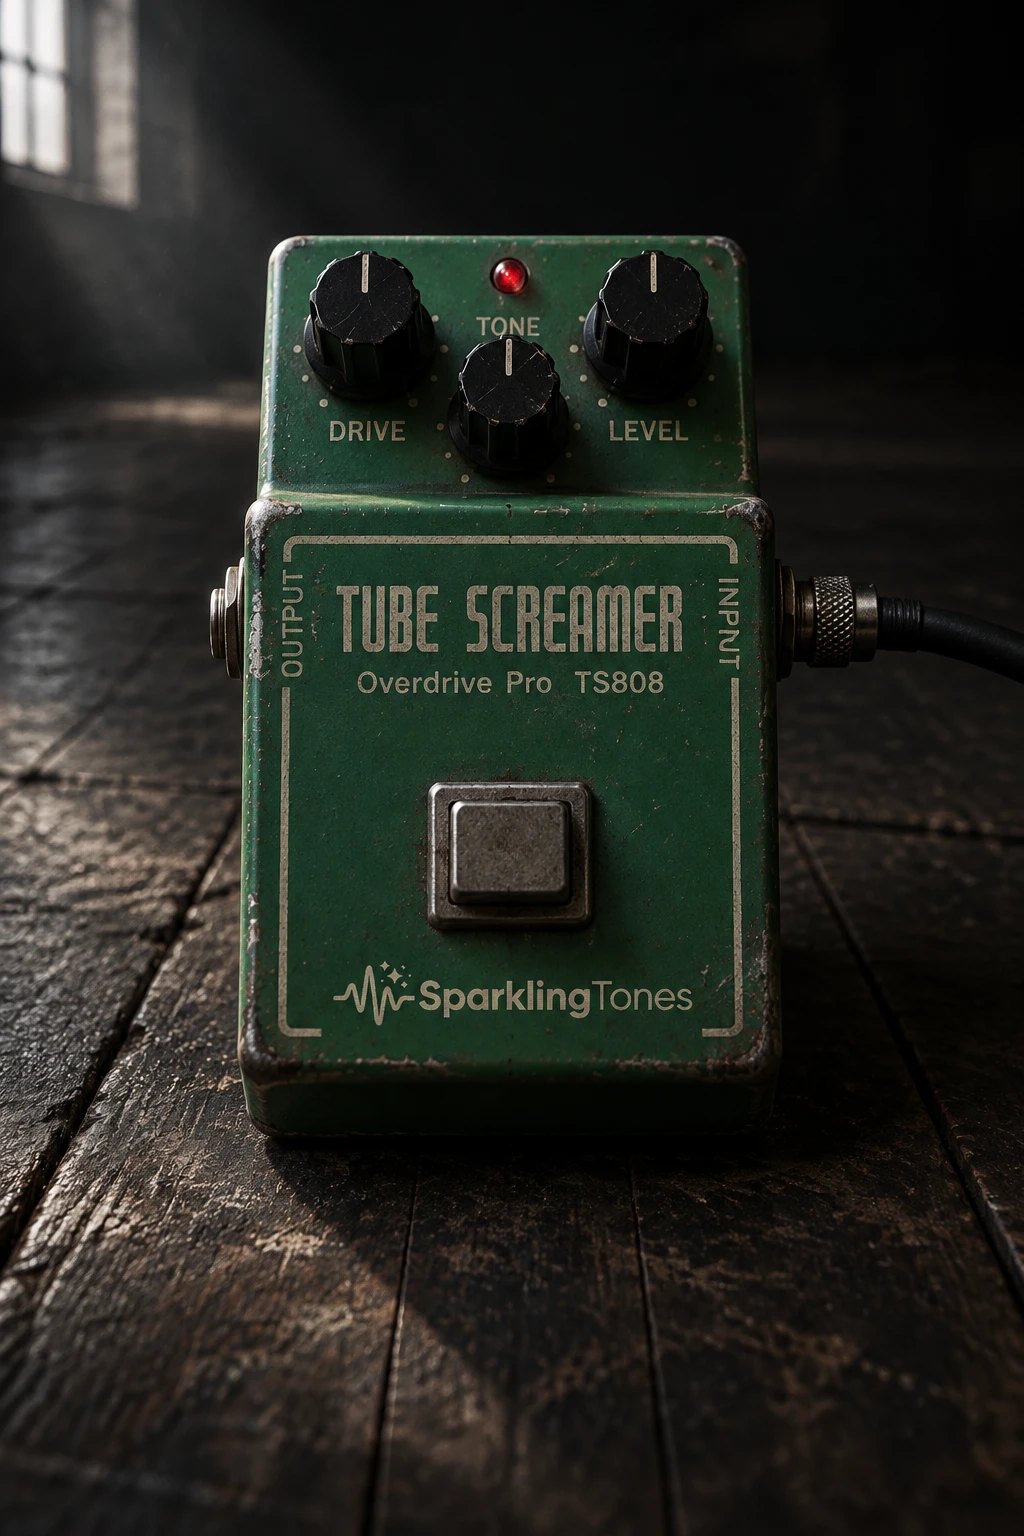
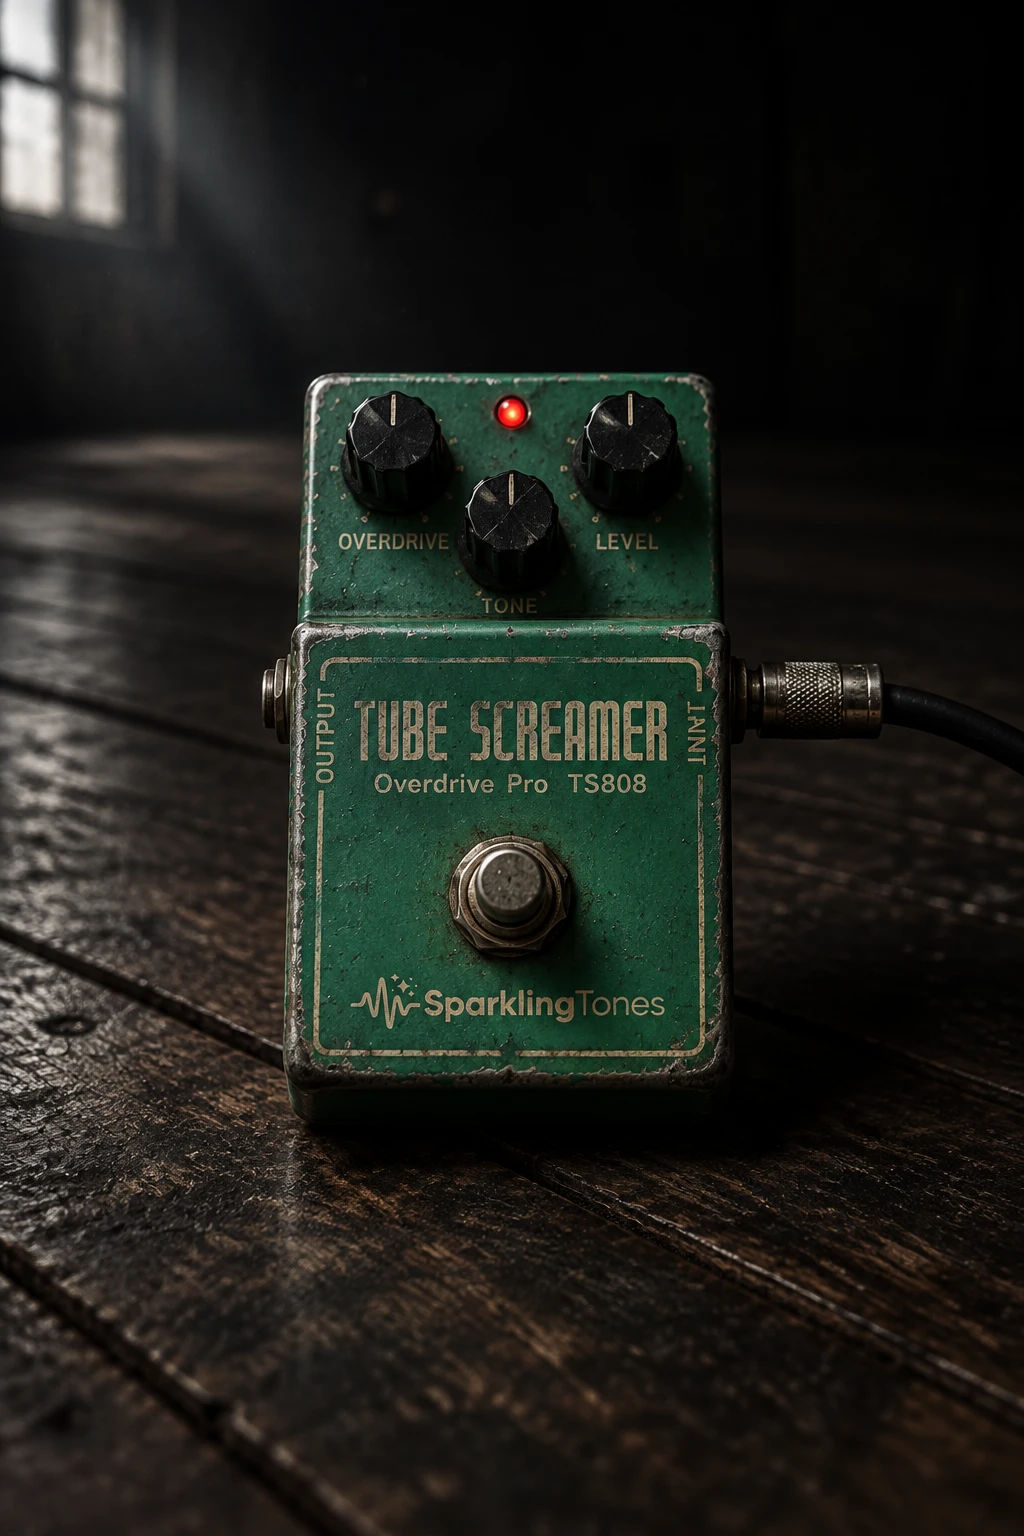
Bozza classico: un pedale può uscire dai lati e venire più grande
Nuovo Tube Screamer (luce a 4500 K, quella scelta) sull'Over Drive. Con
`largo` l'immagine di un pedale può essere più larga del pannello: i lati
sono buio e escono dallo schermo (il pannello del classico non scorre più di
lato), e il pedale viene grande quanto lo spazio in altezza permette.

diff --git a/src/app/17-editor-classico.js b/src/app/17-editor-classico.js
@@ -21,13 +21,14 @@
  * 1024 × 1536, col prompt dei pedali vintage). Un modello senza immagine
  * prende l'ampli. `taglio` è quanto muro vuoto si toglie in alto, `testa`
  * quanta immagine resta sopra il titolo: tutti e due in frazioni dell'altezza,
+ * `largo` quante volte il pannello può essere larga (i lati bui escono),
  * presi a occhio sull'immagine (il soggetto comincia al taglio; il titolo
  * e le manopole coprono la parte bassa, come le casse dell'ampli).
  */
-const SFONDO_PREDEFINITO = { src: 'immagini/classico/ampli.webp', taglio: 0.17, testa: 0.25 };
+const SFONDO_PREDEFINITO = { src: 'immagini/classico/ampli.webp', taglio: 0.17, testa: 0.25, largo: 1 };
 const SFONDI_CLASSICI = {
-  DistortionTS9: { src: 'immagini/classico/tube-drive.webp', taglio: 0.14, testa: 0.35 },
-  Overdrive:     { src: 'immagini/classico/over-drive.webp', taglio: 0.14, testa: 0.35 },
+  DistortionTS9: { src: 'immagini/classico/tube-drive.webp', taglio: 0.14, testa: 0.35, largo: 1 },
+  Overdrive:     { src: 'immagini/classico/over-drive.webp', taglio: 0.22, testa: 0.30, largo: 1.6 },
 };
 
 /** Il raggio dell'arco sottile attorno alla manopola classica (viewBox 100). */
@@ -99,6 +100,7 @@ function bloccoClassico(effetto, posizione) {
   blocco.style.setProperty('--sfondo', `url('${sfondo.src}')`);
   blocco.style.setProperty('--taglio', sfondo.taglio);
   blocco.style.setProperty('--testa', sfondo.testa);
+  blocco.style.setProperty('--largo', sfondo.largo);
 
   const titolo = document.createElement('div');
   titolo.className = 'titolo-classico';

diff --git a/index.html b/index.html
@@ -1451,13 +1451,15 @@
      sotto la catena. Sfuma nel fondo da tutti i lati, e in basso si scurisce
      sotto le manopole. Sopra il titolo resta `--testa` dell'altezza: per l'ampli
      un quarto, cioè la testata.
-     **La misura la decide lo spazio in altezza**: largo quanto il pannello (al
-     più 560 px), ma su uno schermo basso si stringe finché sotto ci stanno il
-     titolo (~70 px) e le file di manopole (~125 px l'una, `--righe`); sopra il
-     blocco ce ne sono ~385 fra testa, tempo, catena e barra in basso. Le
-     immagini sono 2:3, quindi l'altezza è 1,5 volte la larghezza. */
+     **La misura la decide lo spazio in altezza**: tanto grande quanto ci sta
+     sopra il titolo (~70 px) e le file di manopole (~125 px l'una, `--righe`);
+     sopra il blocco ce ne sono ~385 fra testa, tempo, catena e barra in basso.
+     Al più larga quanto il pannello per `--largo` (1 l'ampli; un pedale, che
+     sta in mezzo a tanto buio, anche di più: i lati escono dallo schermo) e
+     700 px. Le immagini sono 2:3, quindi l'altezza è 1,5 volte la larghezza. */
+  #pannelloEditor.classico { overflow-x:hidden; }
   #pannelloEditor.classico .blocco.classico {
-      --scena:min(calc(100% + 28px), 560px,
+      --scena:min(calc((100% + 28px) * var(--largo, 1)), 700px,
                   max(250px, calc((100dvh - 455px - var(--righe, 2) * 125px) / (1.5 * var(--testa)))));
       position:relative; isolation:isolate; overflow:visible;
       width:100%; max-width:560px; margin:0 auto;
